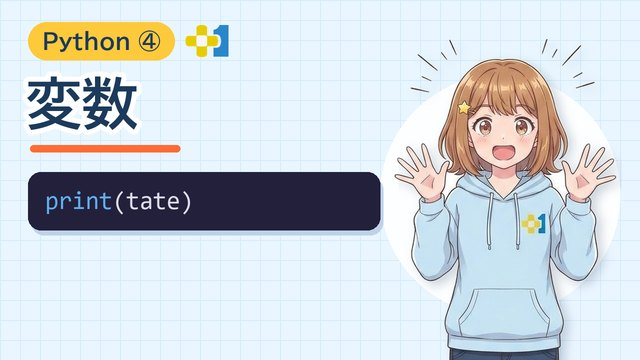
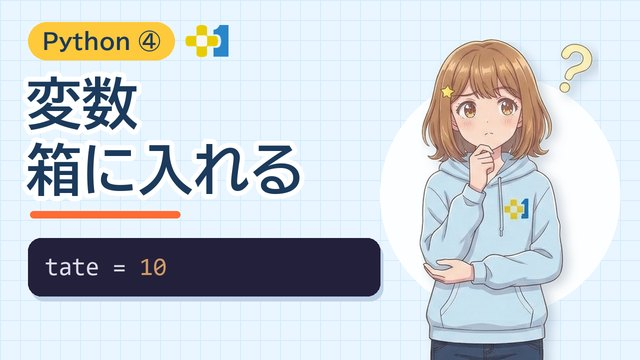
Python ナビ：ステップ4「変数」を新しい動画に・仕上げ5問 31-4
- 動画 3CMHe6WGCLg（変数を箱の動きで説明）・見出し3つ＋チャレンジ3つ・おさらい1問・サムネイル
- 仕上げ5問 31-4 を新しく作った（前の変数の5問はステップ5の 31-5 のまま）
- 仕上げ5問の画面の「ホーム」を「Python ナビ」にして、ナビへもどるようにした

diff --git a/src/data/navi/finishSteps.ts b/src/data/navi/finishSteps.ts
@@ -22,6 +22,14 @@ export const finishStepLessons: Lesson[] = [
     "difficulty": "かんたん"
   },
   {
+    "id": "31-4",
+    "unitNumber": 31,
+    "subNumber": 4,
+    "title": "ステップ4の仕上げ",
+    "description": "変数（箱）に数を入れて、表示や計算に使おう",
+    "difficulty": "かんたん"
+  },
+  {
     "id": "31-5",
     "unitNumber": 31,
     "subNumber": 5,
@@ -572,6 +580,197 @@ export const finishStepMissions: Record<string, Mission[]> = {
             "//"
           ],
           "message": "整数の答えは // で出すよ！"
+        }
+      ]
+    }
+  ],
+  "31-4": [
+    {
+      "id": 1,
+      "type": "quiz",
+      "title": "箱の中身は？",
+      "description": "このコードを実行すると、何が出る？",
+      "codeToRead": "hako = 7\nprint(hako)",
+      "choices": [
+        "hako",
+        "7",
+        "エラーになる"
+      ],
+      "correctAnswer": 1,
+      "expectedOutput": "7",
+      "hint": "print の中の hako には、\" \" がついていないね。",
+      "explanation": "hako は箱の名前。print(hako) で、中身の 7 が出るよ。",
+      "availableBlocks": []
+    },
+    {
+      "id": 2,
+      "type": "quiz",
+      "title": "\" \" をつけると？",
+      "description": "このコードを実行すると、何が出る？",
+      "codeToRead": "tate = 5\nprint(\"tate\")",
+      "choices": [
+        "tate",
+        "5",
+        "エラーになる"
+      ],
+      "correctAnswer": 0,
+      "expectedOutput": "tate",
+      "hint": "print の中の tate は、\" \" でかこんであるね。",
+      "explanation": "\" \" でかこむと、ただの文字 tate が出る。箱の中身を出すなら print(tate) だよ。",
+      "availableBlocks": []
+    },
+    {
+      "id": 3,
+      "type": "quiz",
+      "title": "エラーを直そう",
+      "description": "実行したら「NameError: name 'haba' is not defined」と出た。どう直す？",
+      "codeToRead": "print(haba)",
+      "choices": [
+        "haba を \" \" でかこむ",
+        "print を Print にする",
+        "print の前に haba = 4 のように、箱を作る"
+      ],
+      "correctAnswer": 2,
+      "expectedOutput": "print の前に haba = 4 のように、箱を作る",
+      "hint": "NameError は「その名前が、まだ作られていないよ」という意味。",
+      "explanation": "haba という箱をまだ作っていないので NameError。先に haba = 4 のように作ろう。",
+      "availableBlocks": []
+    },
+    {
+      "id": 4,
+      "title": "箱を作って表示",
+      "description": "変数 kazu に 12 を入れて、kazu の中身を表示しよう！",
+      "expectedOutput": "12",
+      "correctCode": "kazu = 12\nprint(kazu)",
+      "availableBlocks": [
+        {
+          "id": "b0",
+          "text": "kazu",
+          "type": "variable",
+          "color": "bg-sky-200"
+        },
+        {
+          "id": "b1",
+          "text": "=",
+          "type": "operator",
+          "color": "bg-orange-200"
+        },
+        {
+          "id": "b2",
+          "text": "12",
+          "type": "number",
+          "color": "bg-yellow-100"
+        },
+        {
+          "id": "nl3",
+          "text": "↵",
+          "type": "newline",
+          "color": "bg-pink-200"
+        },
+        {
+          "id": "b4",
+          "text": "print",
+          "type": "function",
+          "color": "bg-yellow-200"
+        },
+        {
+          "id": "b5",
+          "text": "(",
+          "type": "bracket",
+          "color": "bg-gray-200"
+        },
+        {
+          "id": "b6",
+          "text": ")",
+          "type": "bracket",
+          "color": "bg-gray-200"
+        },
+        {
+          "id": "b7",
+          "text": "\"kazu\"",
+          "type": "string",
+          "color": "bg-green-200"
+        }
+      ],
+      "rules": [
+        {
+          "forbids": [
+            "\"kazu\""
+          ],
+          "message": "\" \" でかこむと、箱の中身ではなく文字のまま出るよ！"
+        }
+      ]
+    },
+    {
+      "id": 5,
+      "title": "たて × よこ",
+      "description": "tate と yoko の箱を使って、長方形の面積を表示しよう！",
+      "expectedOutput": "48",
+      "correctCode": "print(tate * yoko)",
+      "availableBlocks": [
+        {
+          "id": "b0",
+          "text": "print",
+          "type": "function",
+          "color": "bg-yellow-200"
+        },
+        {
+          "id": "b1",
+          "text": "(",
+          "type": "bracket",
+          "color": "bg-gray-200"
+        },
+        {
+          "id": "b2",
+          "text": "tate",
+          "type": "variable",
+          "color": "bg-sky-200"
+        },
+        {
+          "id": "b3",
+          "text": "*",
+          "type": "operator",
+          "color": "bg-orange-200"
+        },
+        {
+          "id": "b4",
+          "text": "yoko",
+          "type": "variable",
+          "color": "bg-sky-200"
+        },
+        {
+          "id": "b5",
+          "text": ")",
+          "type": "bracket",
+          "color": "bg-gray-200"
+        },
+        {
+          "id": "b6",
+          "text": "×",
+          "type": "operator",
+          "color": "bg-orange-200"
+        },
+        {
+          "id": "b7",
+          "text": "+",
+          "type": "operator",
+          "color": "bg-orange-200"
+        }
+      ],
+      "prefixCode": "tate = 6\nyoko = 8",
+      "rules": [
+        {
+          "forbids": [
+            "×"
+          ],
+          "message": "かけ算は × ではなく、* で書くよ！"
+        },
+        {
+          "requires": [
+            "tate",
+            "yoko"
+          ],
+          "message": "数ではなく、箱の名前で計算しよう！"
         }
       ]
     }
@@ -5277,6 +5476,22 @@ export const finishStepTutorials: LessonTutorial[] = [
         "characterMessage": "わからなくなったら、ヒントを見てね。",
         "codeExample": {
           "good": "print(7 % 2)  # 1"
+        }
+      }
+    ]
+  },
+  {
+    "lessonId": "31-4",
+    "characterName": "いちか",
+    "characterEmoji": "🙂",
+    "characterImage": "/navi/bob_smile.webp",
+    "slides": [
+      {
+        "title": "5問で仕上げよう",
+        "content": "さっきの動画で習ったことを、5問でたしかめます。結果を予想する問題・まちがいを直す問題・ブロックをならべる問題があります。",
+        "characterMessage": "わからなくなったら、ヒントを見てね。",
+        "codeExample": {
+          "good": "tate = 10\nprint(tate)  # 10"
         }
       }
     ]

diff --git a/src/app/lesson/[id]/page.tsx b/src/app/lesson/[id]/page.tsx
@@ -167,8 +167,9 @@ export default function LessonPage({ params }: LessonPageProps) {
       <div className="max-w-5xl mx-auto">
         {/* ヘッダー */}
         <div className="mb-8">
+          {/* 仕上げ5問（Python ナビの生徒）は、ナビへもどる */}
           <Link
-            href="/"
+            href={isFinishLesson(lesson.id) ? "/navi" : "/"}
             className="inline-flex items-center gap-2 text-gray-700 hover:text-gray-900 font-semibold transition-colors text-base bg-white hover:bg-gray-50 px-4 py-2 rounded-lg border border-gray-200 mb-4"
           >
             <svg
@@ -179,7 +180,7 @@ export default function LessonPage({ params }: LessonPageProps) {
             >
               <path d="M10.707 2.293a1 1 0 00-1.414 0l-7 7a1 1 0 001.414 1.414L4 10.414V17a1 1 0 001 1h2a1 1 0 001-1v-2a1 1 0 011-1h2a1 1 0 011 1v2a1 1 0 001 1h2a1 1 0 001-1v-6.586l.293.293a1 1 0 001.414-1.414l-7-7z" />
             </svg>
-            ホーム
+            {isFinishLesson(lesson.id) ? "Python ナビ" : "ホーム"}
           </Link>
           <div className="flex items-center justify-between">
             <div>

diff --git a/src/app/lesson/[id]/editor/page.tsx b/src/app/lesson/[id]/editor/page.tsx
@@ -1382,10 +1382,10 @@ export default function LessonEditorPage({ params }: EditorPageProps) {
         </div>
       )}
       <div className="max-w-5xl mx-auto">
-        {/* ホームボタン */}
+        {/* ホームボタン（仕上げ5問は Python ナビへ） */}
         <div className="mb-2">
           <Link
-            href="/"
+            href={isFinishLesson(lessonId || "") ? "/navi" : "/"}
             className="inline-flex items-center gap-2 text-gray-700 hover:text-gray-900 font-semibold transition-colors text-base bg-white hover:bg-gray-50 px-4 py-2 rounded-lg border border-gray-200"
           >
             <svg
@@ -1396,7 +1396,7 @@ export default function LessonEditorPage({ params }: EditorPageProps) {
             >
               <path d="M10.707 2.293a1 1 0 00-1.414 0l-7 7a1 1 0 001.414 1.414L4 10.414V17a1 1 0 001 1h2a1 1 0 001-1v-2a1 1 0 011-1h2a1 1 0 011 1v2a1 1 0 001 1h2a1 1 0 001-1v-6.586l.293.293a1 1 0 001.414-1.414l-7-7z" />
             </svg>
-            ホーム
+            {isFinishLesson(lessonId || "") ? "Python ナビ" : "ホーム"}
           </Link>
         </div>
 

diff --git a/scripts/build-navi-finish.py b/scripts/build-navi-finish.py
@@ -489,6 +489,23 @@ FRESH = {
         B("何こ買える？", "1こ 30円のガム。200円で何こ買えるかな？ 整数の答えを表示しよう！", "print(200 // 30)", "6", extra=["/"],
           rules=[("req", ["//"], "整数の答えは // で出すよ！")]),
     ]),
+    4: dict(desc="変数（箱）に数を入れて、表示や計算に使おう", example="tate = 10\nprint(tate)  # 10", qs=[
+        Q("箱の中身は？", "hako = 7\nprint(hako)", "7", ["hako", "エラーになる"],
+          "print の中の hako には、\" \" がついていないね。", "hako は箱の名前。print(hako) で、中身の 7 が出るよ。"),
+        Q("\" \" をつけると？", 'tate = 5\nprint("tate")', "tate", ["5", "エラーになる"],
+          "print の中の tate は、\" \" でかこんであるね。",
+          "\" \" でかこむと、ただの文字 tate が出る。箱の中身を出すなら print(tate) だよ。"),
+        Q("エラーを直そう", "print(haba)", "print の前に haba = 4 のように、箱を作る",
+          ["haba を \" \" でかこむ", "print を Print にする"],
+          "NameError は「その名前が、まだ作られていないよ」という意味。",
+          "haba という箱をまだ作っていないので NameError。先に haba = 4 のように作ろう。",
+          desc="実行したら「NameError: name 'haba' is not defined」と出た。どう直す？", run=False),
+        B("箱を作って表示", "変数 kazu に 12 を入れて、kazu の中身を表示しよう！", "kazu = 12\nprint(kazu)", "12",
+          extra=['"kazu"'], rules=[("forbids", ['"kazu"'], "\" \" でかこむと、箱の中身ではなく文字のまま出るよ！")]),
+        B("たて × よこ", "tate と yoko の箱を使って、長方形の面積を表示しよう！", "print(tate * yoko)", "48",
+          extra=["×", "+"], prefix="tate = 6\nyoko = 8",
+          rules=[("forbids", ["×"], "かけ算は × ではなく、* で書くよ！"), ("req", ["tate", "yoko"], "数ではなく、箱の名前で計算しよう！")]),
+    ]),
 }
 
 NEW_STEP = {2: 5, 3: 8, 4: 9, 5: 10, 6: 11, 7: 14, 8: 16, 9: 18, 10: 23, 11: 25, 12: 28, 13: 33, 14: 35, 15: 37,
